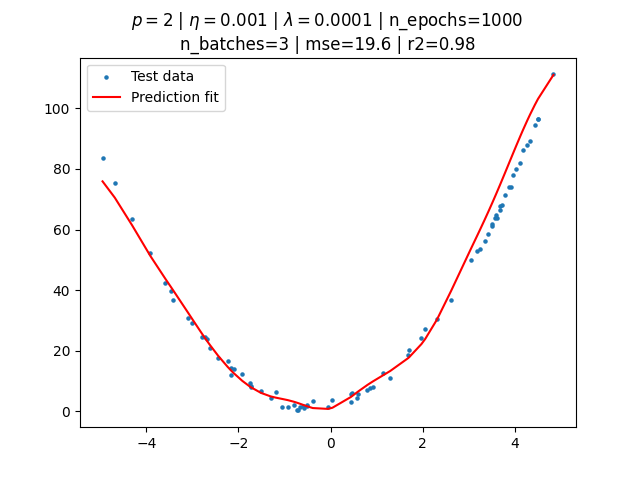
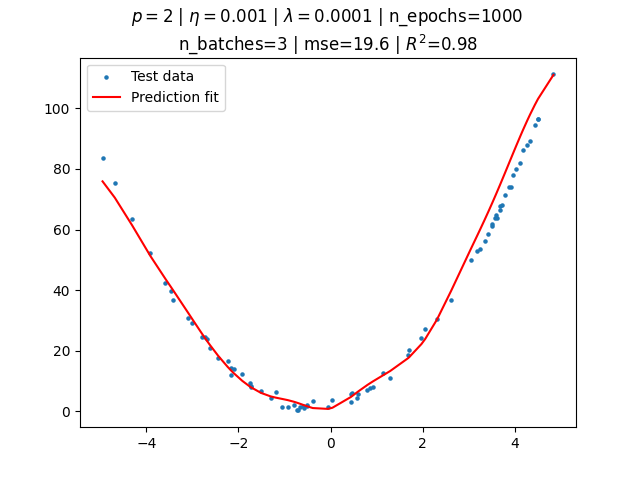
fixed mse bug

Changed region(s): [[0.1875, 0.0, 0.8125, 0.125]]

diff --git a/project2/source-code/mortens-code/part_b&c_regression.py b/project2/source-code/mortens-code/part_b&c_regression.py
@@ -8,7 +8,7 @@ import matplotlib.pyplot as plt
 import seaborn as sns
 from sklearn.model_selection import train_test_split
 from sklearn.neural_network import MLPRegressor  # neural network from sckikit-learn for comparision
-from sklearn.metrics import r2_score
+from sklearn.metrics import r2_score, mean_squared_error
 
 # Parameters
 n = 100  # no. data points
@@ -50,6 +50,8 @@ def create_X_1d(x, n):
 x_test, x_train, y_test, y_train = train_test_split(x, y, test_size=0.2,
                                                     random_state=rng_seed)
 
+test_cost = cost_ols(y_test.ravel())                                                   
+
 X_train = create_X_1d(x_train, degree)
 X_test = create_X_1d(x_test, degree)
 
@@ -86,7 +88,7 @@ def plot_pred(filename: str = ""):
     pred = nn.predict(X_test)
 
     # PLOT DATA AND PREDICTION
-    test_mse = cost_ols(y_test)(pred)
+    test_mse = test_cost(pred.ravel())
     test_r2 = r2_score(y_test, pred)
     sort_order = np.argsort(x_test.ravel())
     x_sort = x_test.ravel()[sort_order]
@@ -95,7 +97,7 @@ def plot_pred(filename: str = ""):
     plt.scatter(x_sort, y_test.ravel()[sort_order], 5, label="Test data")
     plt.plot(x_sort, pred.ravel()[sort_order], "r-", label="Prediction fit")
     plt.title(f"$p={degree}$ | $\eta={eta}$ | $\lambda={lmbda}$ | {n_epochs=} "
-              f"\n{n_batches=} | mse={test_mse:.1f} | r2={test_r2:.2f}")
+              f"\n{n_batches=} | mse={test_mse:.1f} | $R^2$={test_r2:.2f}")
     plt.legend()
 
     if filename:
@@ -116,7 +118,7 @@ def plot_pred_scikit(filename: str = ""):
     pred = nn_sk.predict(X_test)
 
     # PLOT DATA AND PREDICTION
-    test_mse = cost_ols(y_test)(pred)
+    test_mse = test_cost(pred.ravel())
     test_r2 = r2_score(y_test, pred)
     sort_order = np.argsort(x_test.ravel())
     x_sort = x_test.ravel()[sort_order]
@@ -125,7 +127,7 @@ def plot_pred_scikit(filename: str = ""):
     plt.scatter(x_sort, y_test.ravel()[sort_order], 5, label="Test data")
     plt.plot(x_sort, pred.ravel()[sort_order], "r-", label="Prediction fit")
     plt.title(f"$p={degree}$ | $\eta={eta}$ | $\lambda={lmbda}$ | {n_epochs=} "
-              f"\n{n_batches=} | mse={test_mse:.1f} | r2={test_r2:.2f}")
+              f"\n{n_batches=} | mse={test_mse:.1f} | $R^2$={test_r2:.2f}")
     plt.legend()
 
     if filename:
@@ -154,7 +156,7 @@ def plot_mse_r2_grid(filename_mse: str = "", filename_r2: str = ""):
                     batches=n_batches,
             )
             pred = nn.predict(X_test)
-            mse_scores[i, j] = cost_ols(y_test)(pred)
+            mse_scores[i, j] = test_cost(pred.ravel())
             r2_scores[i, j] = r2_score(y_test, pred)
 
     # MSE heatmap
@@ -201,8 +203,8 @@ def plot_mse_r2_grid(filename_mse: str = "", filename_r2: str = ""):
 
 
 # plot_pred("../../results/figures/part_b_pred.png")
-plot_pred_scikit("../../results/figures/part_b_pred_scikit.png")
-# plot_mse_r2_grid(
-#         "../../results/figures/part_b_mse_grid.png",
-#         "../../results/figures/part_b_r2_grid.png"
-# )
+# plot_pred_scikit("../../results/figures/part_b_pred_scikit.png")
+plot_mse_r2_grid(
+        "../../results/figures/part_b_mse_grid.png",
+        "../../results/figures/part_b_r2_grid.png"
+)
